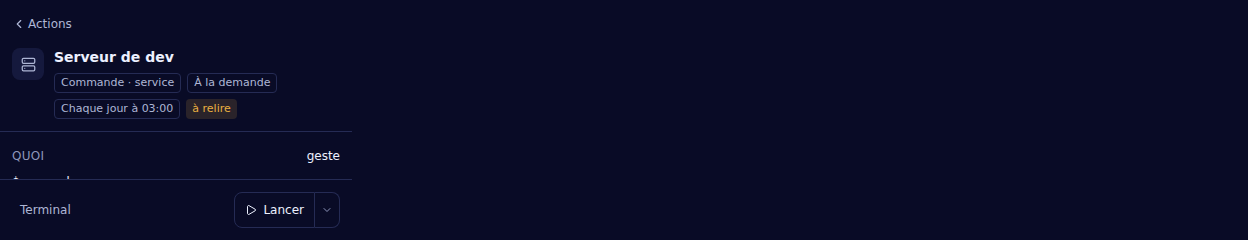
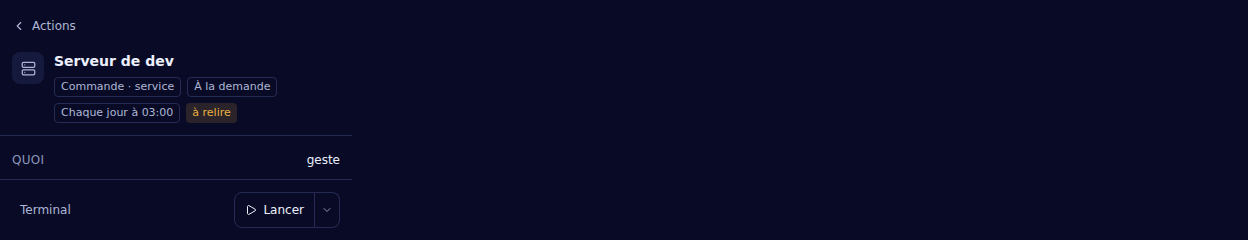
Pièces d'une action : « ‹ Actions » aligné sur l'icône, captures à jour (#210)

diff --git a/apps/web/src/components/automations/ActionSheet.tsx b/apps/web/src/components/automations/ActionSheet.tsx
@@ -85,7 +85,7 @@ export function ActionHeader({
         <button
           type="button"
           onClick={chrome.onBack ?? onClose}
-          className={cx(panelGestureClass, '-ml-1 w-fit gap-0.5 px-1')}
+          className={cx(panelGestureClass, '-ml-2.5 w-fit gap-0.5')}
         >
           <ChevronLeft size={14} aria-hidden /> {chrome.backLabel ?? t('actionDrawer.back')}
         </button>
